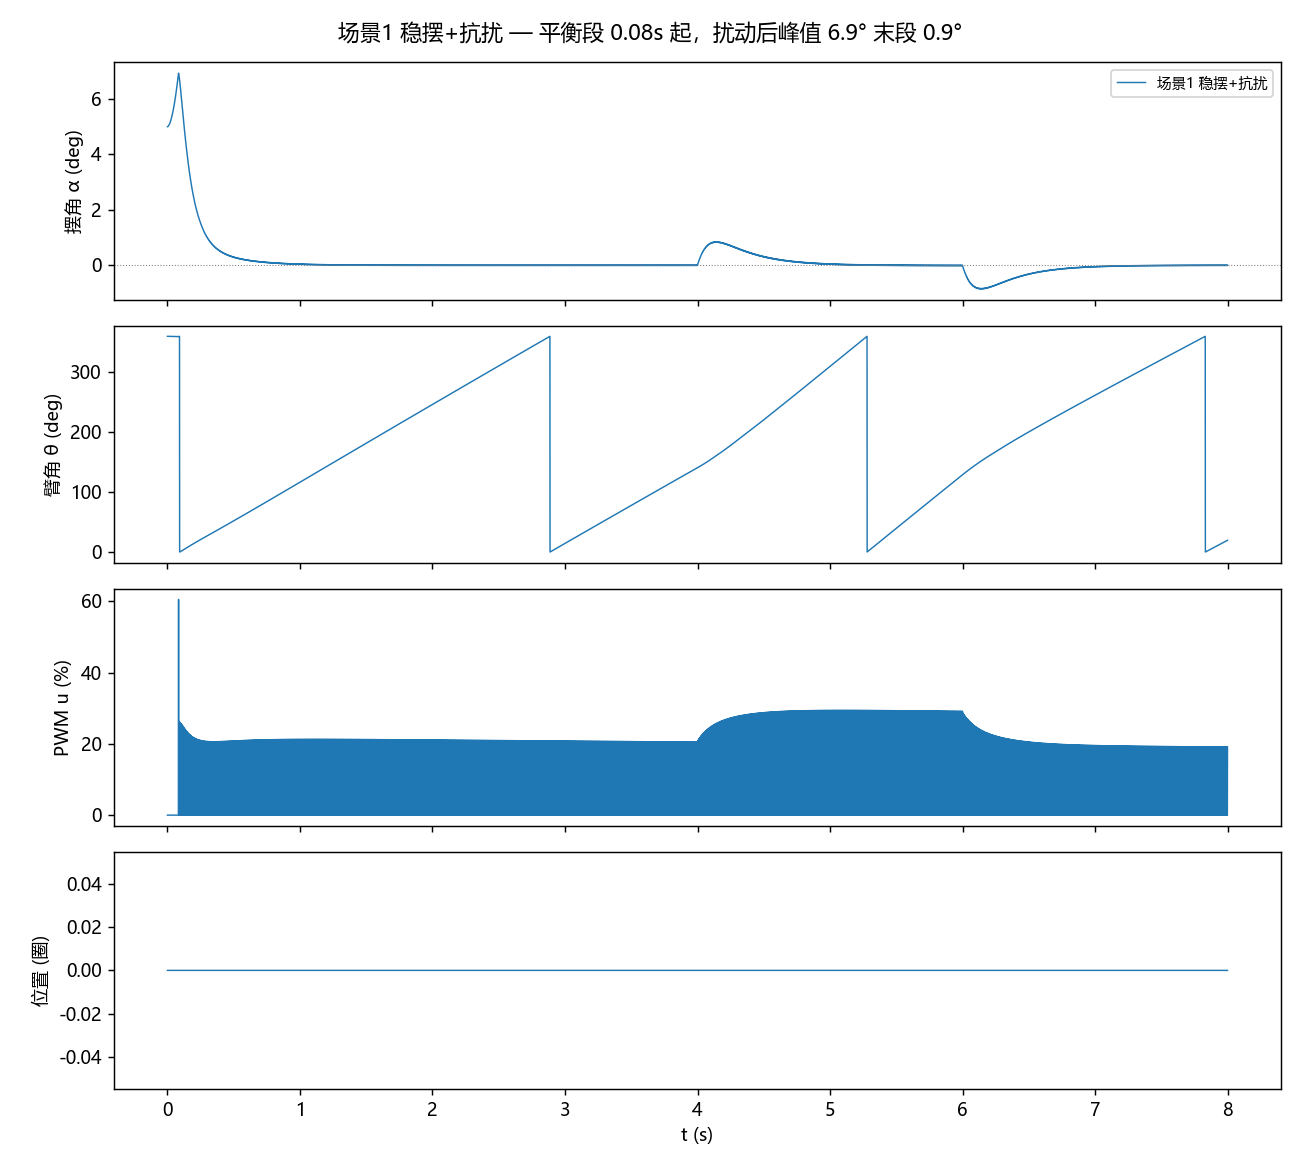
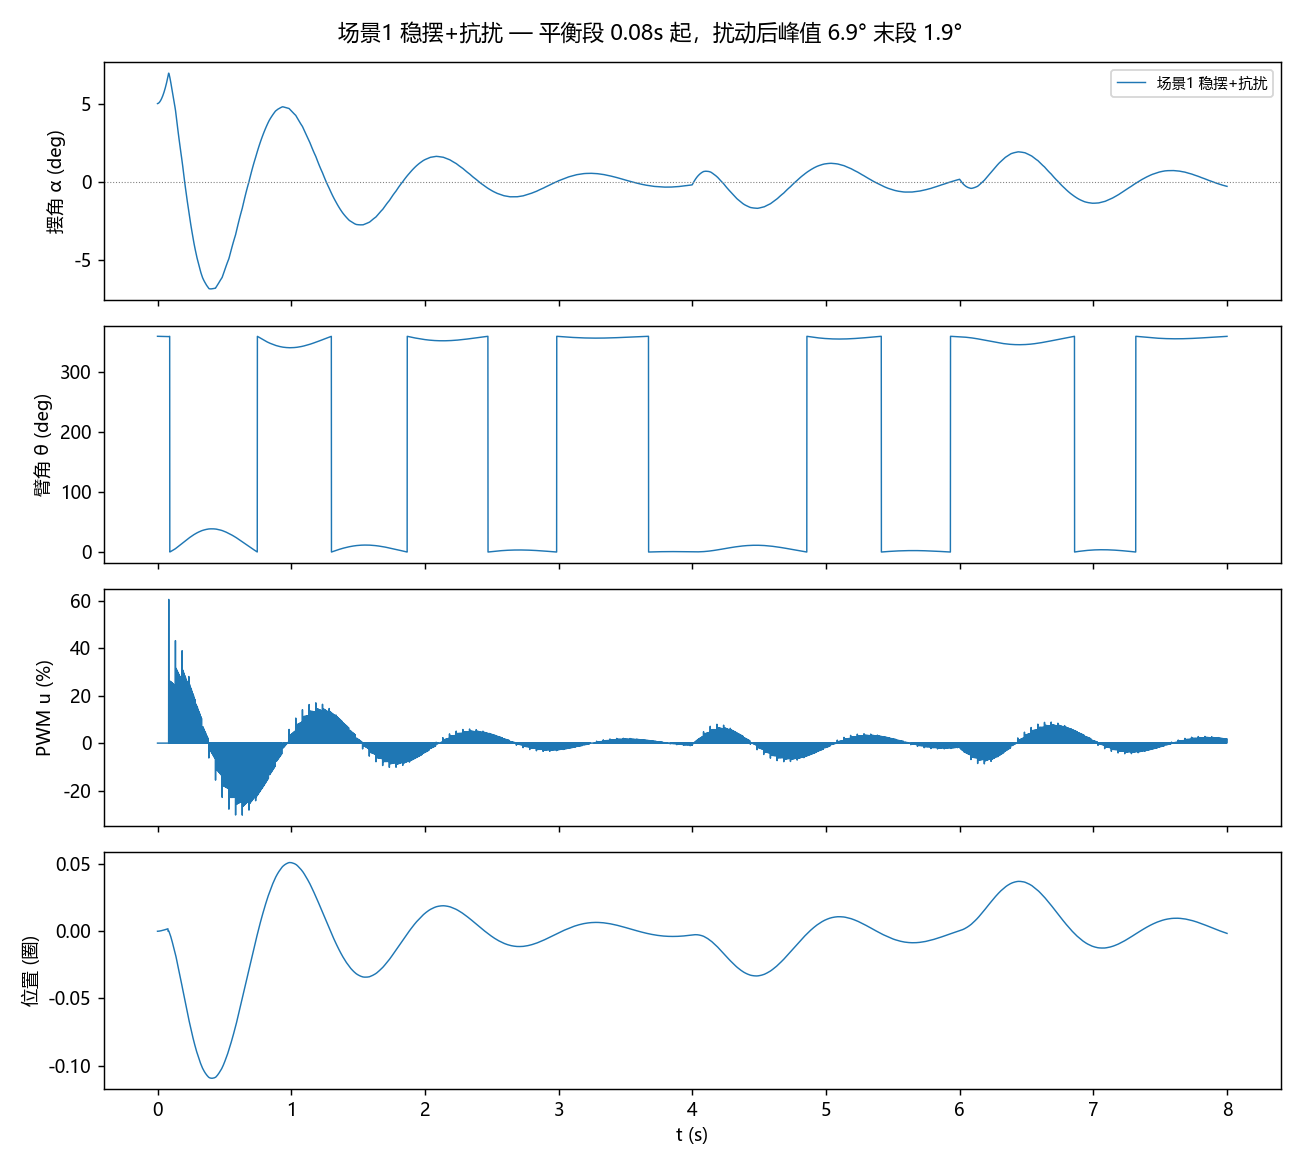
fix: 修复位置环 location 双重累加 bug，构建脚本改相对路径
- controller.py: JXPendulumController 重复累加 location，MOTOR_SIGN=-1 时位置恒为 0
- run_sim.py: 去掉 GBK 控制台下会崩溃的 ✓/× 符号
- build.tcl / test_env.gprj: 去掉失效的绝对路径，改相对路径（E:\FBGA 工具链实测可构建）
- 重跑仿真，更新 sc1/sc3/sc4（sc2/sc5 不变）

diff --git a/inverted-pendulum/sim/run_sim.py b/inverted-pendulum/sim/run_sim.py
@@ -188,7 +188,7 @@ def main():
             lg = simulate_energy(p, t_end=15.0, alpha0=np.deg2rad(179.0), ke_gain=kg)
             i4 = np.argwhere(lg["state"] == 4).ravel()
             ok = i4.size and (lg["state"][-2000:] == 4).all()
-            print(f"  ke_gain={kg:6.1f} → {'✓ t=%.2fs 入稳' % lg['t'][i4[0]] if ok else '×'}")
+            print(f"  ke_gain={kg:6.1f} → {'OK t=%.2fs 入稳' % lg['t'][i4[0]] if ok else '失败'}")
             if ok and best_log is None:
                 best_kg, best_log, best_t = kg, lg, lg["t"][i4[0]]
         if best_log is not None:

diff --git a/inverted-pendulum/sim/controller.py b/inverted-pendulum/sim/controller.py
@@ -76,7 +76,6 @@ class JXPendulumController:
     def step(self, alpha: float, dtheta_counts: float) -> float:
         """每个 1kHz 控制拍调用一次；dtheta_counts = 本拍编码器增量（计数）"""
         self.location += MOTOR_SIGN * dtheta_counts   # 编码器计数方向与电机方向一致
-        self.location += dtheta_counts
         Angle = self.adc_of(alpha)
 
         c = self.angle_pid
